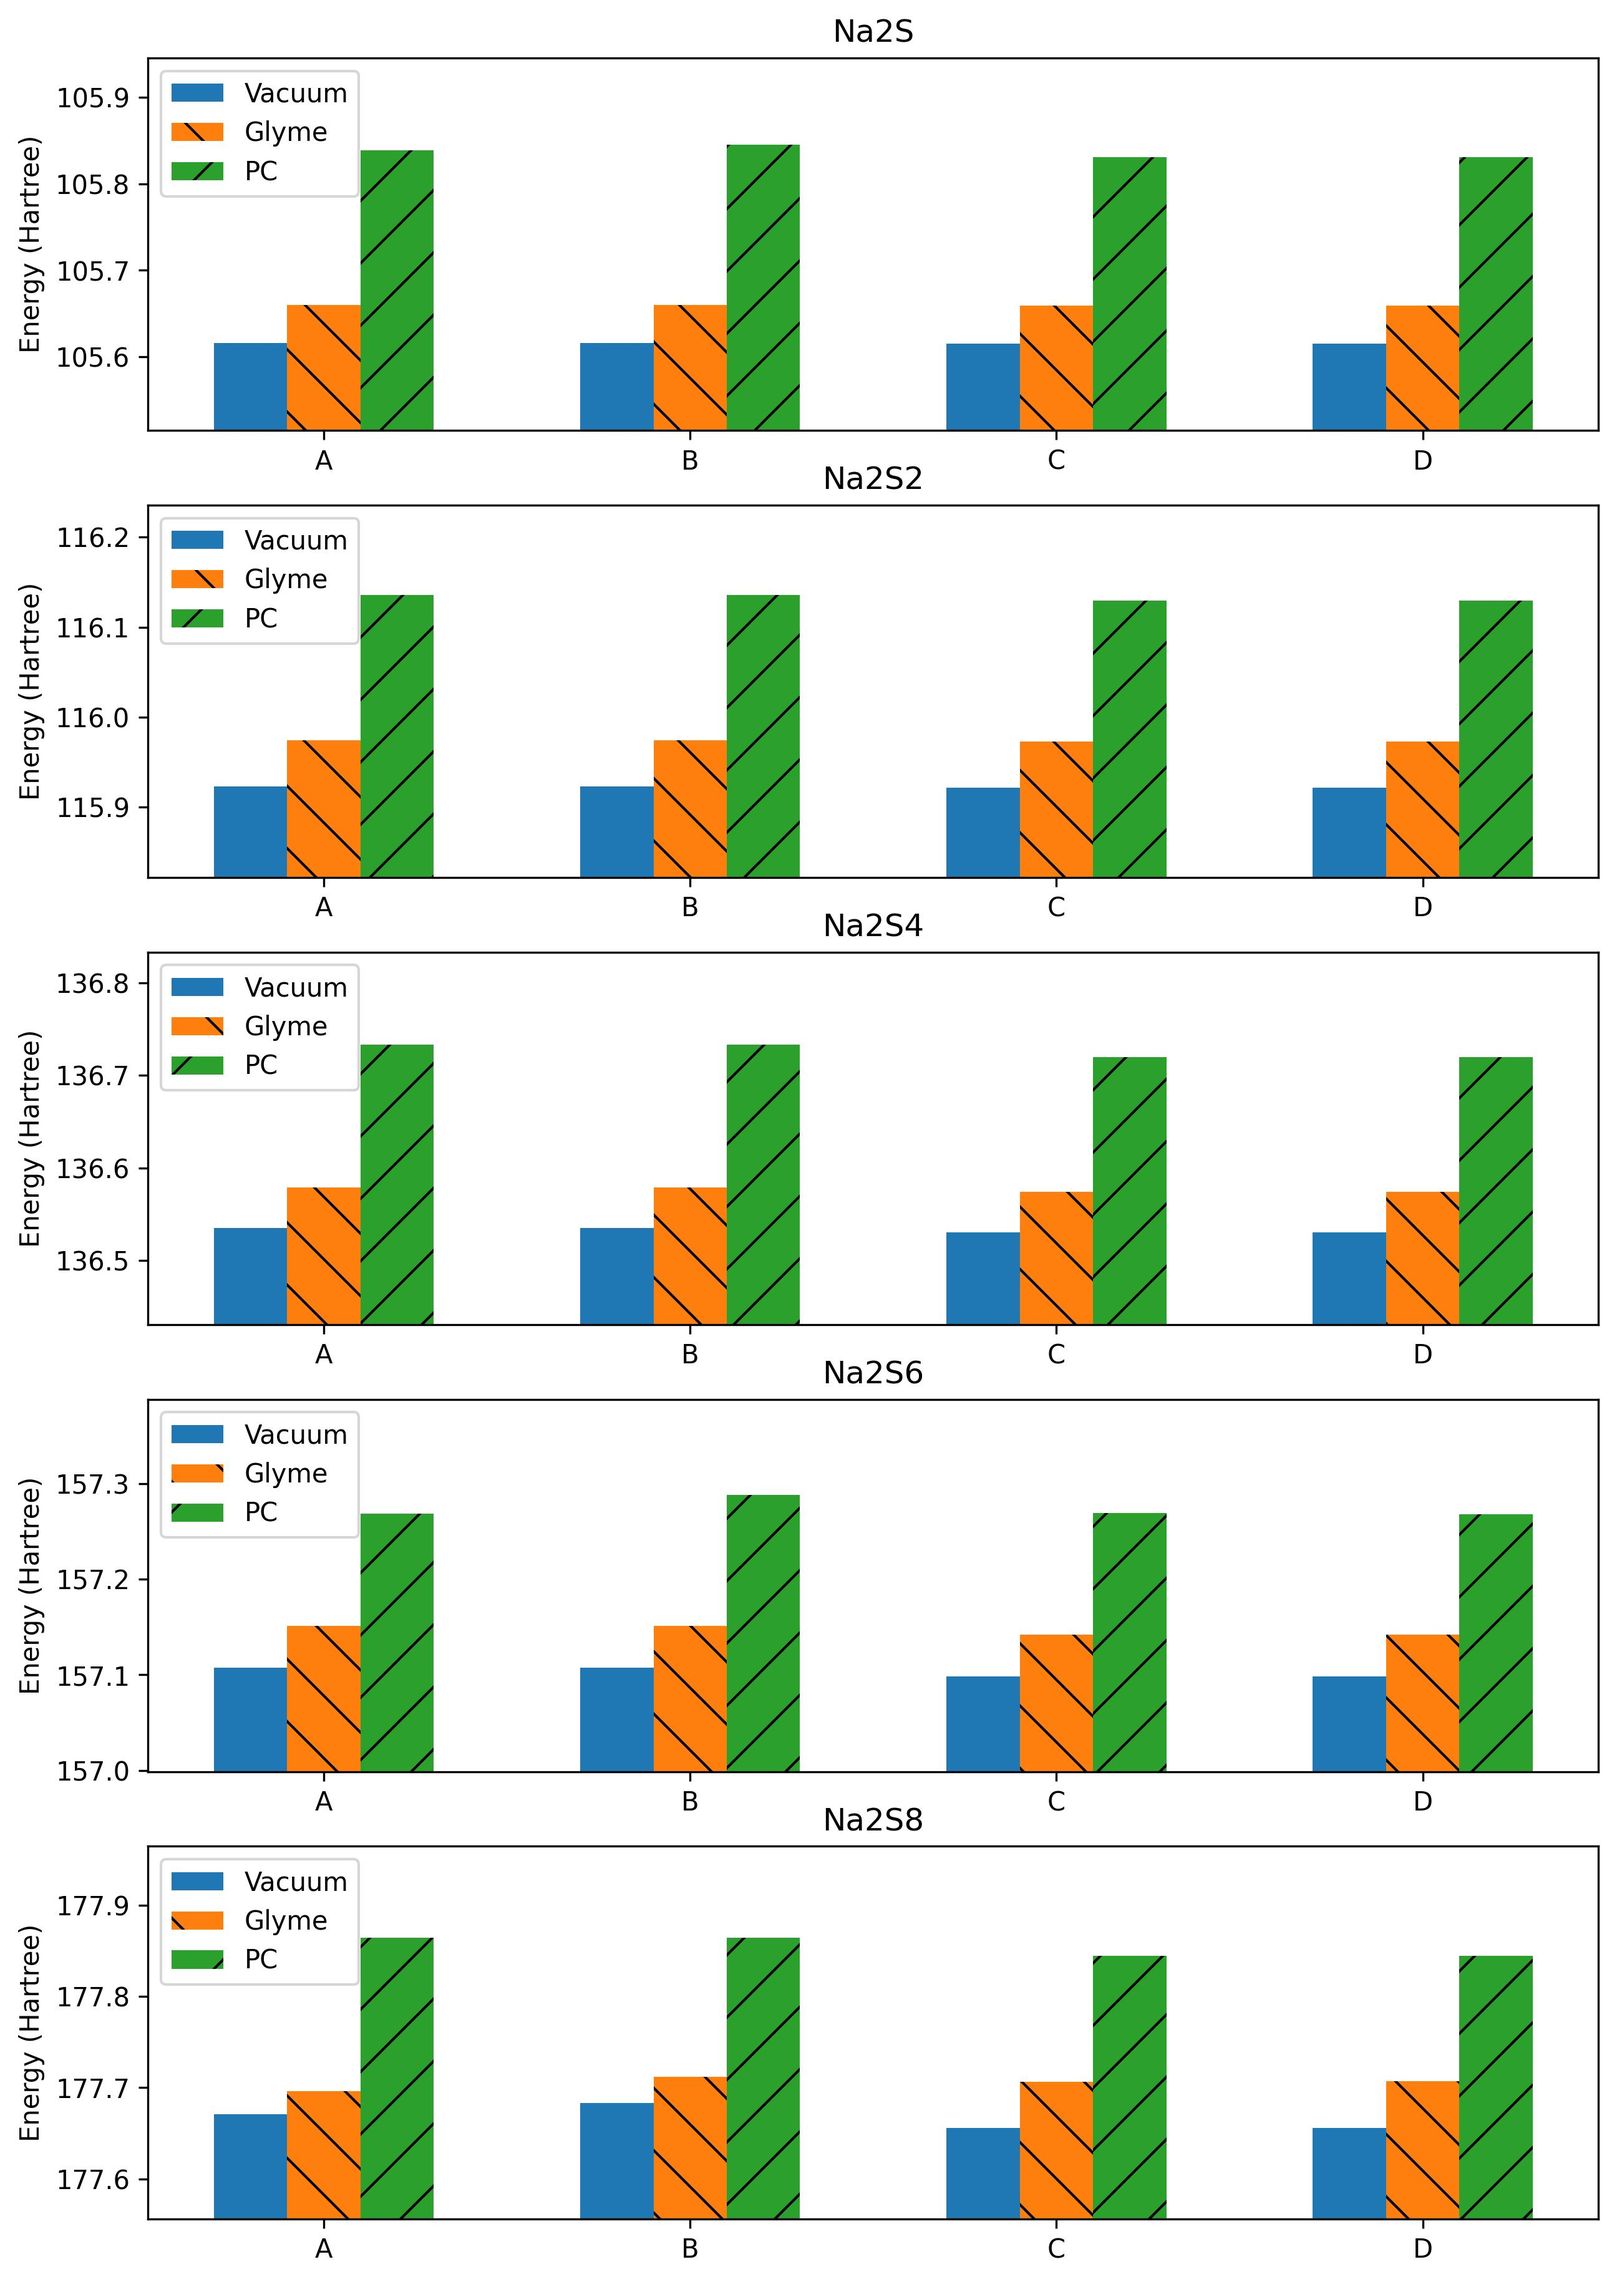
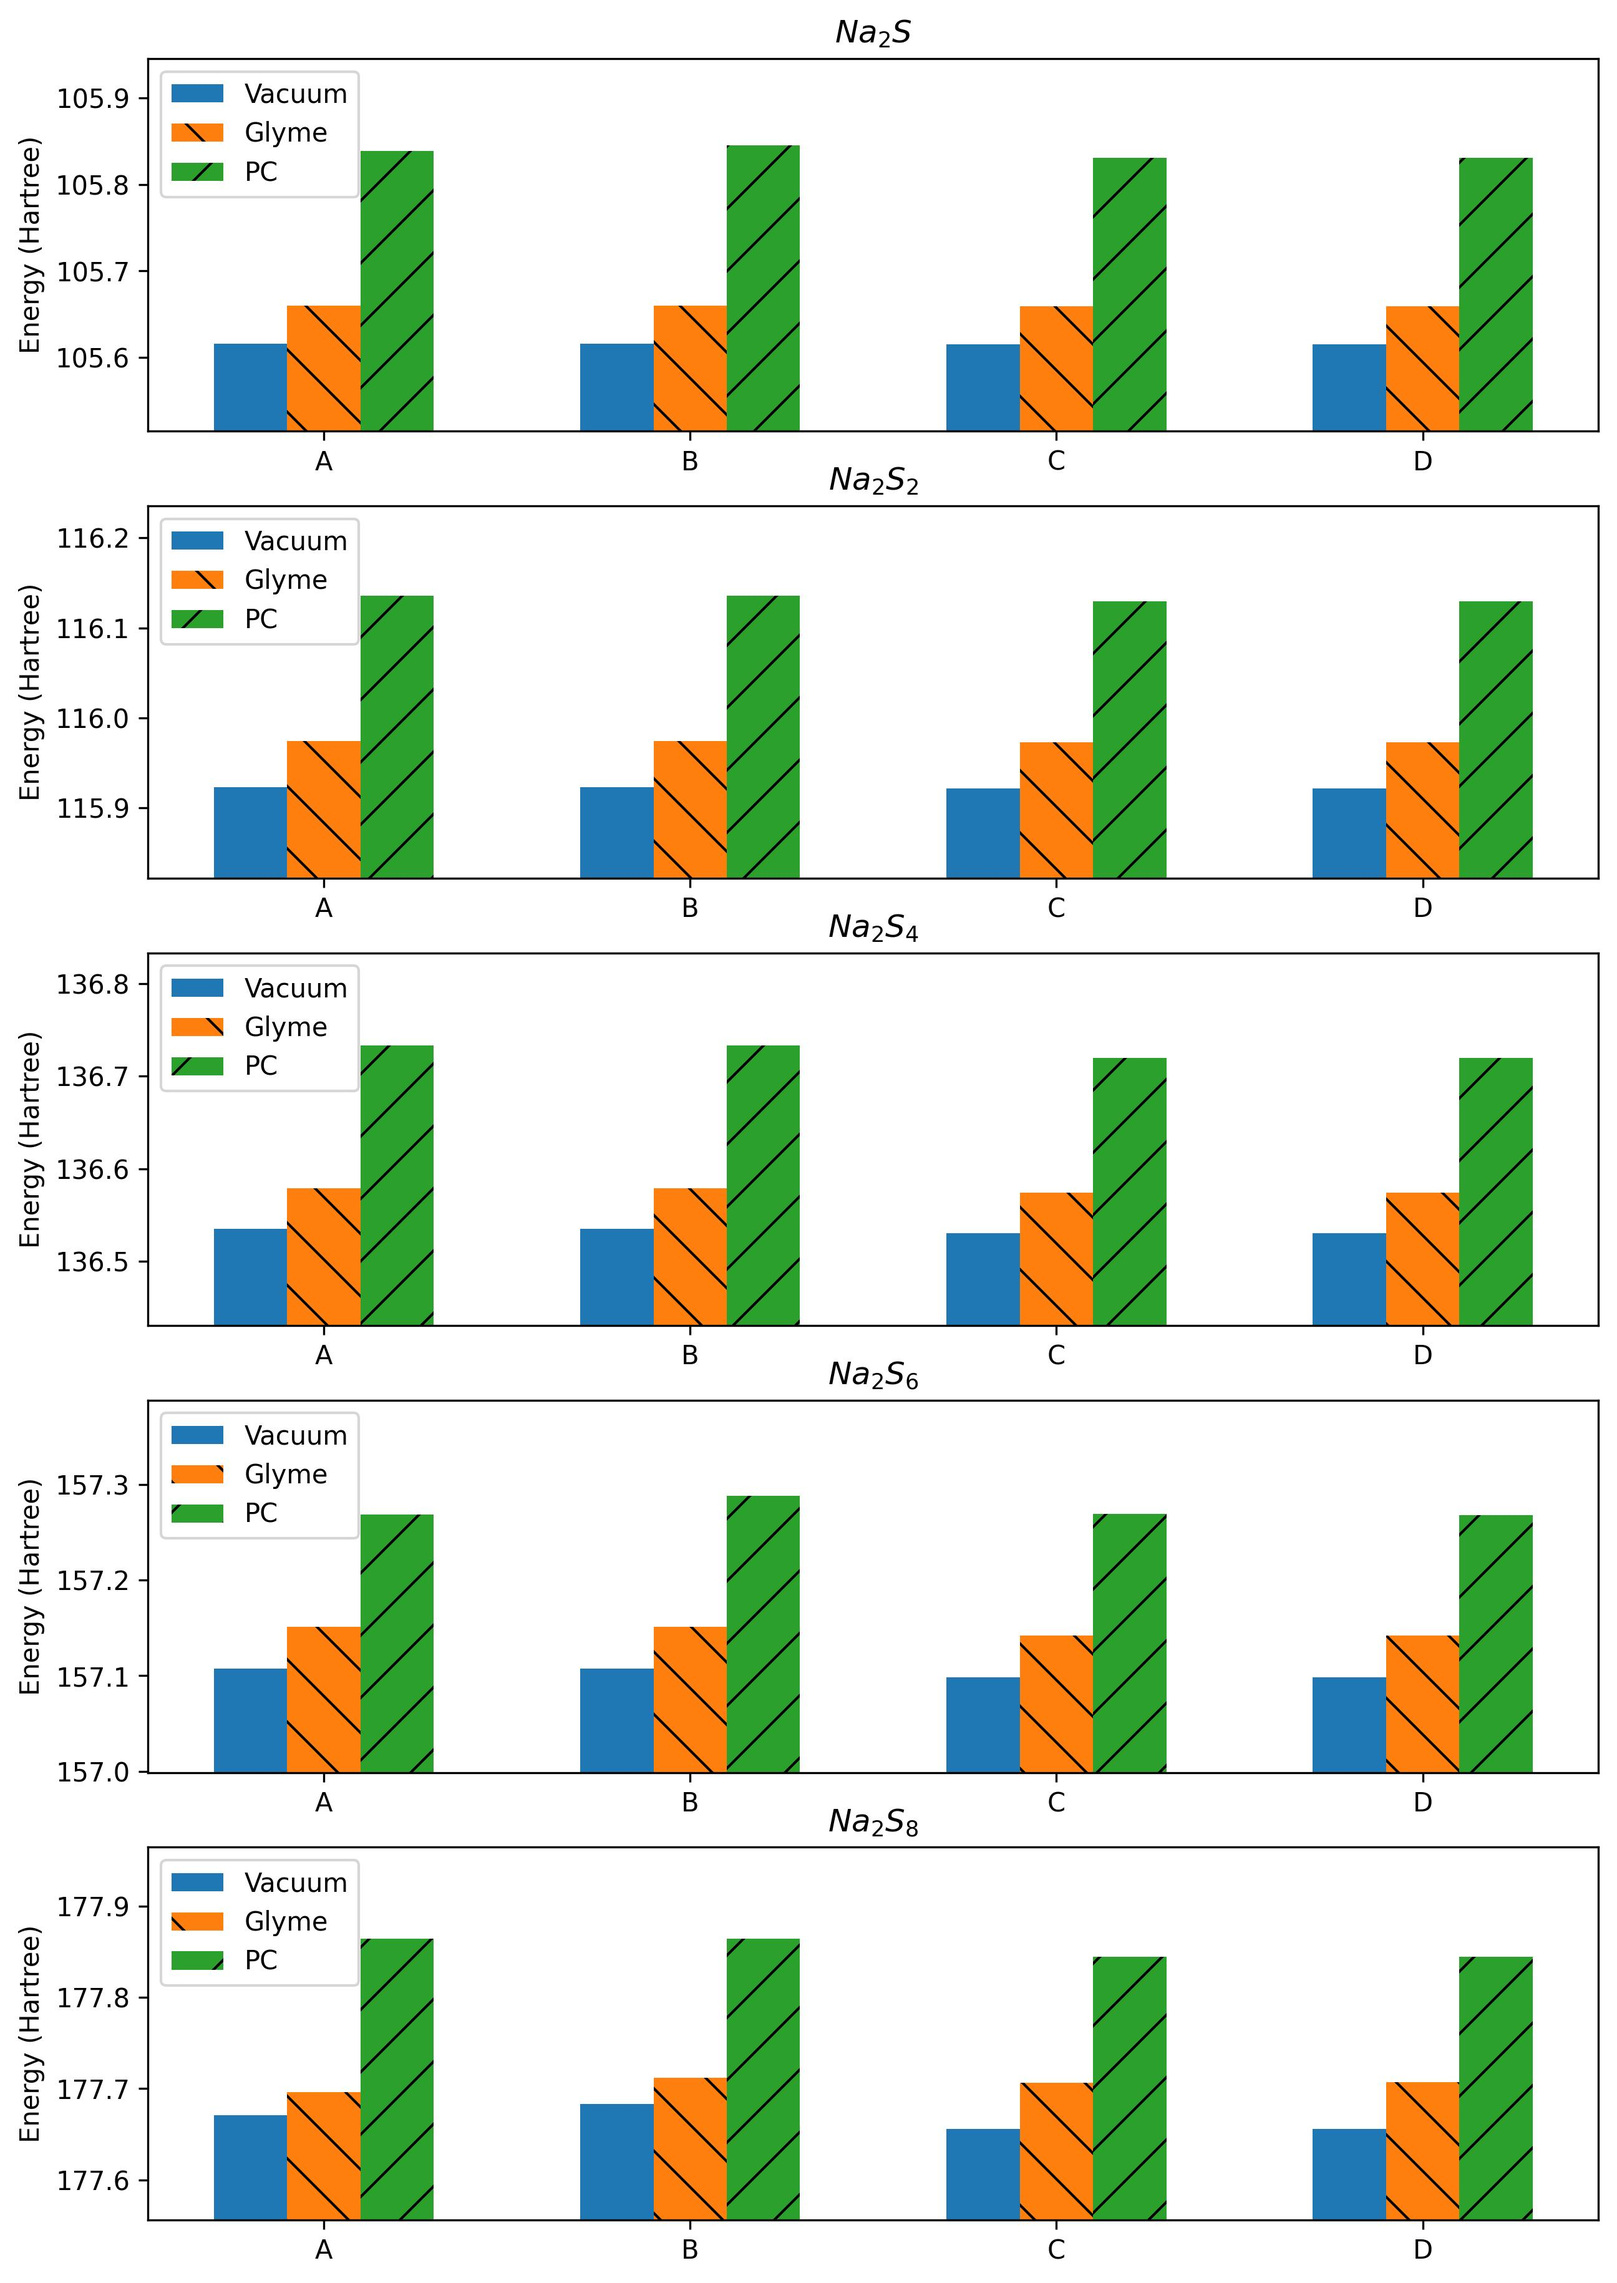
updated titles on naps energy figure

diff --git a/plotting_management.py b/plotting_management.py
@@ -70,6 +70,7 @@ def plot_NaPS_energy():
     fig, axs = plt.subplots(2, 2, figsize=(12, 10))
     # Define the x-ticks and solvents
     x_ticks = ["Na2S", "Na2S2", "Na2S4", "Na2S6", "Na2S8"]
+    x_labels = ["$Na_2S$", "$Na_2S_2$", "$Na_2S_4$", "$Na_2S_6$", "$Na_2S_8$"]
     solvents = ["Vacuum", "Glyme", "PC"]
     # Initialize a dictionary to hold the data
     nvdw_scf_data = {solvent: [] for solvent in solvents}
@@ -147,7 +148,7 @@ def plot_NaPS_energy():
         axs[i].set_xticks([p + bar_width for p in index])
         axs[i].set_xticklabels(x_ticks)
         axs[i].set_ylabel('Energy (Hartree)')
-        axs[i].set_title(f'{NaPSs[i]}')
+        axs[i].set_title(f'{x_labels[i]}')
         axs[i].set_ylim(y_min-0.1, y_max+0.1)
         axs[i].legend()
     plt.savefig(os.path.join(os.getcwd(), 'Figures/NaPS-5_subplot-NaPS.jpg'), dpi=dpi, bbox_inches='tight')
@@ -749,9 +750,9 @@ def plot_binding_energy_summary():
 if __name__ == "__main__":
     # plot_cell_size_convergence()
     # plot_kpoint_convergence()
-    # plot_NaPS_energy()
+    plot_NaPS_energy()
     # plot_NaPS_oxidation()
-    plot_binding_energies()
+    # plot_binding_energies()
     # plot_NaPS_bonds()
     # plot_adsorption_lengths()
     # plot_oxidation_states()
